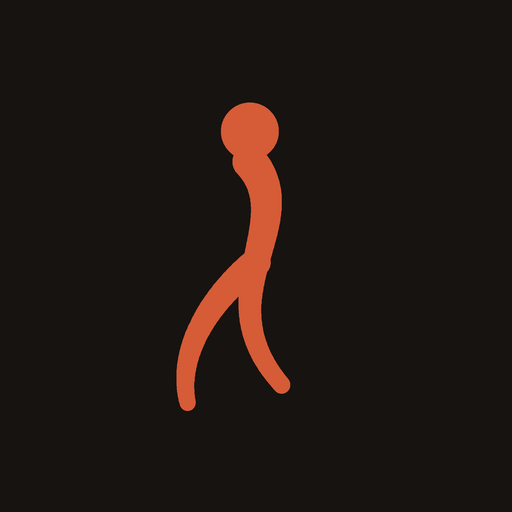
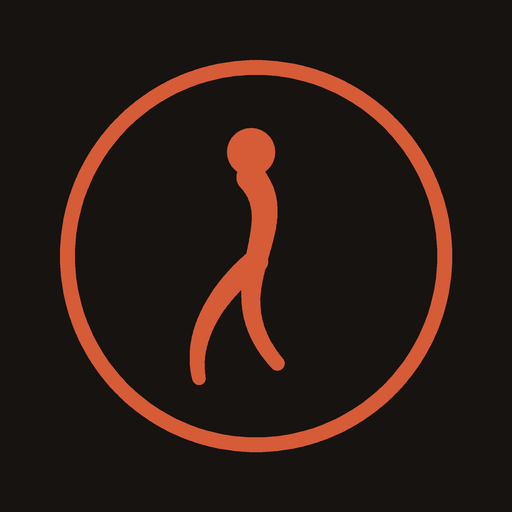
Frame the gesture-figure mark with a ring, tying it to the app's own countdown dial

Changed region(s): [[0.0938, 0.0938, 0.9062, 0.9062], [0.4062, 0.1875, 0.5625, 0.5], [0.4375, 0.5, 0.4688, 0.5312]]

diff --git a/index.html b/index.html
@@ -570,9 +570,10 @@ body[data-kind="prep"] .dial-time{color:var(--graphite);}
 <div id="view-setup" class="view">
   <div class="wordmark-row">
     <svg class="logo-mark" viewBox="0 0 512 512" fill="none" aria-hidden="true">
-      <circle cx="250" cy="131.4" r="28.8" fill="currentColor"></circle>
-      <path d="M250,161.7 C303.3,222.9 202.5,294.9 281.7,384.9" stroke="currentColor" stroke-width="26" stroke-linecap="round"></path>
-      <path d="M256.1,262.5 C205.7,302.1 176.9,356.1 187.7,402.9" stroke="currentColor" stroke-width="22" stroke-linecap="round"></path>
+      <circle cx="256" cy="256" r="196" stroke="currentColor" stroke-width="15"></circle>
+      <circle cx="251" cy="152.2" r="24" fill="currentColor"></circle>
+      <path d="M251,177.4 C295.4,228.4 211.4,288.4 277.4,363.4" stroke="currentColor" stroke-width="22" stroke-linecap="round"></path>
+      <path d="M256.1,261.4 C214.1,294.4 190.1,339.4 199.1,378.4" stroke="currentColor" stroke-width="18" stroke-linecap="round"></path>
     </svg>
     <div class="wordmark">CROQUIS<span>.</span></div>
   </div>